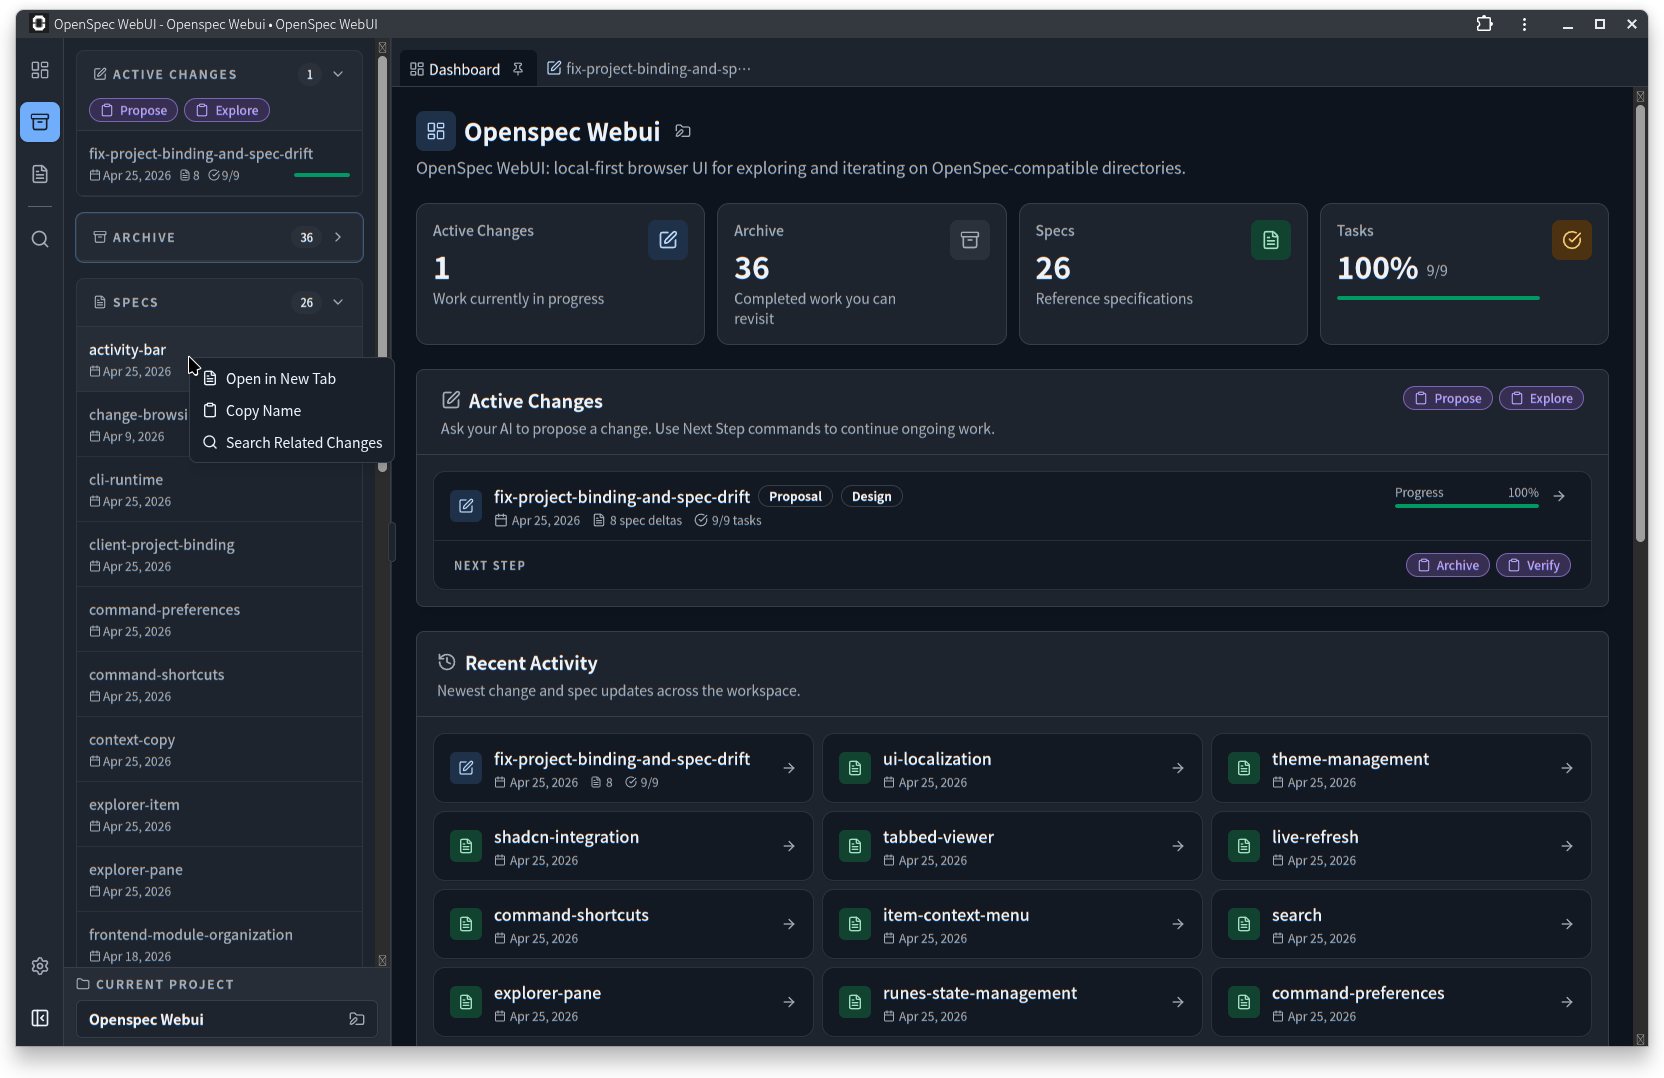
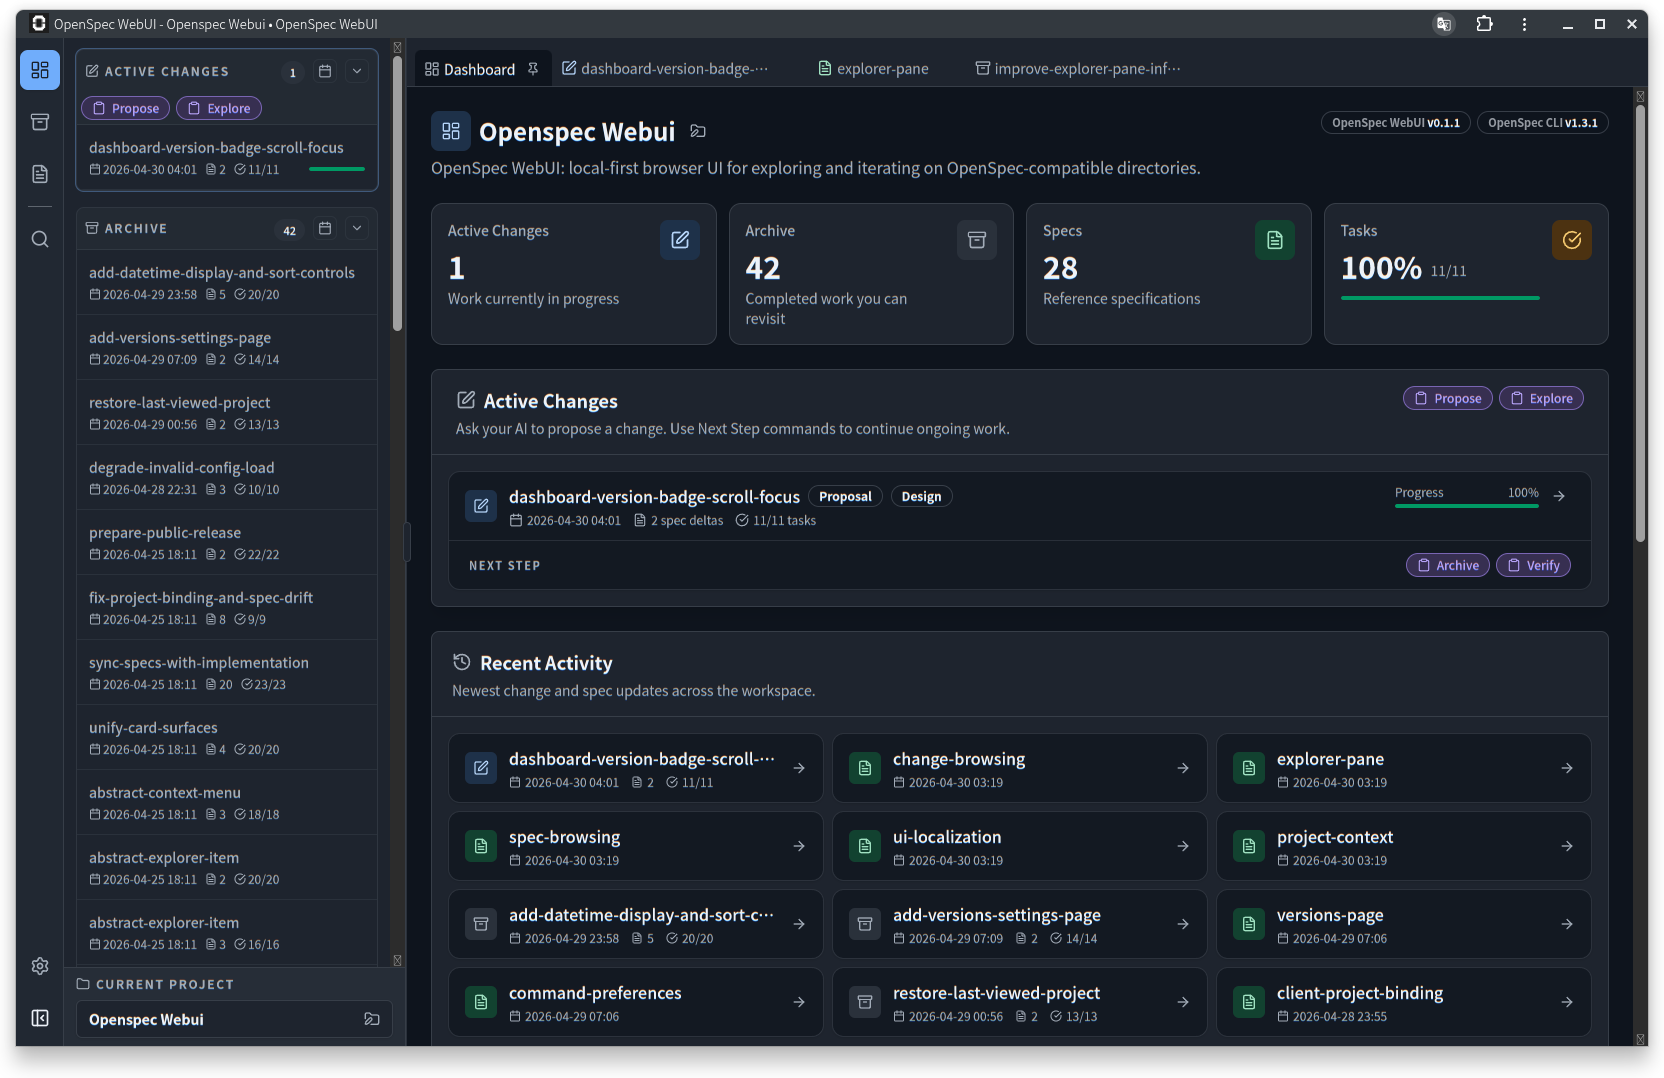
feat: add version badge to dashboard header and explorer scroll focus

diff --git a/frontend/src/lib/components/shared/VersionBadge.svelte b/frontend/src/lib/components/shared/VersionBadge.svelte
@@ -1,0 +1,58 @@
+<script lang="ts">
+  import { ArrowRight } from '@lucide/svelte';
+  import { Badge } from '$lib/components/ui/badge';
+  import { layoutStore } from '$lib/state/layout.svelte.ts';
+  import { versionStatusStore } from '$lib/state/versionStatus.svelte.ts';
+  import { FIXED_LABELS } from '$lib/uiText';
+
+  type ToolBadge = {
+    label: string;
+    current: string | null;
+    latest: string | null;
+    updateAvailable: boolean;
+  };
+
+  let tools = $derived.by((): ToolBadge[] => {
+    const snapshot = versionStatusStore.snapshot;
+    if (!snapshot || snapshot.loading) return [];
+
+    return [
+      {
+        label: FIXED_LABELS.settings.versions.webui,
+        current: snapshot.tools.webui.currentVersion,
+        latest: snapshot.tools.webui.latestVersion,
+        updateAvailable: snapshot.tools.webui.updateAvailable,
+      },
+      {
+        label: FIXED_LABELS.settings.versions.openspecCli,
+        current: snapshot.tools.openspec.currentVersion,
+        latest: snapshot.tools.openspec.latestVersion,
+        updateAvailable: snapshot.tools.openspec.updateAvailable,
+      },
+    ];
+  });
+
+  function handleClick() {
+    layoutStore.openOverlay('settings', { settingsSection: 'versions' });
+  }
+</script>
+
+{#if tools.length > 0}
+  <button type="button" onclick={handleClick} class="flex items-center gap-1.5">
+    {#each tools as tool}
+      <Badge
+        variant={tool.updateAvailable ? 'warning' : 'outline'}
+        class="cursor-pointer gap-0.5 text-[11px] hover:opacity-80 transition-opacity"
+      >
+        <span class="opacity-60">{tool.label}</span>
+        {#if tool.updateAvailable}
+          <span>{tool.current ?? '?'}</span>
+          <ArrowRight class="h-2.5 w-2.5" />
+          <span class="font-semibold">{tool.latest ?? '?'}</span>
+        {:else}
+          <span>v{tool.current ?? '?'}</span>
+        {/if}
+      </Badge>
+    {/each}
+  </button>
+{/if}

diff --git a/frontend/src/lib/state/layout.svelte.ts b/frontend/src/lib/state/layout.svelte.ts
@@ -131,6 +131,7 @@ function createLayoutStore() {
     narrowDrawerOpen: false,
     overlay: null as LayoutOverlay,
     searchInitialQuery: '',
+    settingsInitialSection: null as string | null,
   });
 
   let initialized = false;
@@ -212,6 +213,10 @@ function createLayoutStore() {
       return state.searchInitialQuery;
     },
 
+    get settingsInitialSection() {
+      return state.settingsInitialSection;
+    },
+
     initialize,
 
     setExplorerCollapsed(collapsed: boolean) {
@@ -280,14 +285,16 @@ function createLayoutStore() {
       this.setNarrowDrawerOpen(!state.narrowDrawerOpen);
     },
 
-    openOverlay(overlay: Exclude<LayoutOverlay, null>, options?: { initialQuery?: string }) {
+    openOverlay(overlay: Exclude<LayoutOverlay, null>, options?: { initialQuery?: string; settingsSection?: string }) {
       state.overlay = overlay;
       state.searchInitialQuery = options?.initialQuery ?? '';
+      state.settingsInitialSection = overlay === 'settings' ? (options?.settingsSection ?? null) : null;
     },
 
     closeOverlay() {
       state.overlay = null;
       state.searchInitialQuery = '';
+      state.settingsInitialSection = null;
     },
 
     toggleOverlay(overlay: Exclude<LayoutOverlay, null>) {

diff --git a/frontend/src/lib/components/layout/SettingsModal.svelte b/frontend/src/lib/components/layout/SettingsModal.svelte
@@ -27,6 +27,7 @@
   } from '$lib/commandShortcuts';
   import { commandPreferencesStore } from '$lib/state/commandPreferences.svelte.ts';
   import { tabStore } from '$lib/state/tabs.svelte.ts';
+  import { layoutStore } from '$lib/state/layout.svelte.ts';
   import { themeStore, type Theme } from '$lib/state/theme.svelte.ts';
   import { uiPreferencesStore } from '$lib/state/uiPreferences.svelte.ts';
 
@@ -92,7 +93,8 @@
 
   $effect(() => {
     if (open) {
-      activeSection = 'general';
+      const initialSection = layoutStore.settingsInitialSection;
+      activeSection = (initialSection && sections.some(s => s.id === initialSection) ? initialSection : 'general') as Section;
     }
   });
 

diff --git a/frontend/src/lib/api.ts b/frontend/src/lib/api.ts
@@ -14,7 +14,6 @@ import {
   type SpecSummary,
   type Stats,
   type StructuredApiError,
-  type ToolVersionStatus,
   type VersionStatusResponse,
 } from './types/api';
 const API_BASE = '/api';
@@ -43,7 +42,6 @@ export type {
   StructuredApiError,
   Task,
   TaskProgress,
-  ToolVersionStatus,
   VersionStatusResponse,
 } from './types/api';
 

diff --git a/openspec/changes/archive/2026-04-30-dashboard-version-badge-scroll-focus/design.md b/openspec/changes/archive/2026-04-30-dashboard-version-badge-scroll-focus/design.md
@@ -1,0 +1,48 @@
+## Context
+
+The dashboard (`Dashboard.svelte`) is the home surface of OpenSpec WebUI. Its header currently shows an `<h1>` title and a FolderPen button on the right. The existing Versions feature (Settings → Versions page) already fetches version snapshots from the server and stores them in `versionStatusStore`. The explorer section component (`explorer-section.svelte`) has `scrollIntoView` logic, but only in the direct-toggle handler—not when `focusedSection` changes programmatically.
+
+## Goals / Non-Goals
+
+**Goals:**
+- Give users at-a-glance version status visibility from the dashboard without navigating to Settings
+- Make explorer section focus always visually confirmed by scrolling the section header into view
+- Both behaviors should reuse existing infrastructure (version store, layout store, `headerRef`)
+
+**Non-Goals:**
+- Replacing or duplicating the Settings → Versions page functionality
+- Auto-update or background refresh of version data beyond what already exists
+- Changing how the activity bar or dashboard cards trigger focus (only adding scroll response)
+
+## Decisions
+
+### 1. Version badge reads from existing `versionStatusStore`
+
+The badge consumes `versionStatusStore.snapshot` directly. No new API calls or store logic needed. The store already fetches on app load and the existing toast notification proves the data pipeline works.
+
+### 2. Badge is a `Badge` component from shadcn-svelte with conditional variant
+
+- **No updates**: `variant="outline"`, shows app version string quietly
+- **Updates available**: `variant="warning"` (or `destructive`), shows "current → latest" with arrow icon, clickable
+
+Rationale: shadcn `Badge` already used elsewhere; keeps visual consistency.
+
+### 3. Badge click opens Settings modal directly to Versions page
+
+Call `openSettings('versions')` (or equivalent modal navigation). This avoids implementing a separate version detail UI.
+
+### 4. Scroll-into-view via reactive `$effect` on `focusedSection` in `explorer-section.svelte`
+
+Add an `$effect` that watches the `focusedSection` state from `layoutStore`. When it matches this section's `section` prop and the section is expanded, call `headerRef?.scrollIntoView({ behavior: 'smooth', block: 'start' })`.
+
+Rationale: The existing `scrollIntoView` in `handleToggle()` only fires on user-initiated toggles. A reactive effect catches both `focusSection()` calls (dashboard card clicks) and `setActivityPreset()` calls (activity bar + dashboard summary cards) since both set `focusedSection` in the layout store.
+
+### 5. Use `requestAnimationFrame` wrapper for scroll
+
+Same pattern as existing `handleToggle()`. Ensures the DOM has updated (section expanded) before scrolling.
+
+## Risks / Trade-offs
+
+- **Badge updates only on snapshot refresh**: If version data is stale, the badge may show outdated info. → Acceptable: same limitation as Settings → Versions page. The store already refreshes on app load.
+- **Scroll may fire redundantly**: If the focused section is already visible, `scrollIntoView` is a no-op or minimal scroll. → Acceptable: no visual disruption.
+- **Scroll timing with drawer open animation**: In narrow mode, the drawer may still be animating when scroll fires. → Mitigate with a small `setTimeout` delay after `requestAnimationFrame`, or use `onTransitionEnd` if needed.

diff --git a/openspec/specs/dashboard-version-badge/spec.md b/openspec/specs/dashboard-version-badge/spec.md
@@ -1,0 +1,32 @@
+# dashboard-version-badge Specification
+
+## Purpose
+Define the version status badge displayed in the dashboard header, providing at-a-glance visibility into tool update availability.
+
+## Requirements
+
+### Requirement: Dashboard header shows version status badge
+The system SHALL display a version status badge in the dashboard header, positioned to the right of the FolderPen button. The badge SHALL read from the existing `versionStatusStore` snapshot data.
+
+#### Scenario: All tools up-to-date
+- **WHEN** the version snapshot has loaded and no tool updates are available
+- **THEN** the badge displays the app version string with a quiet outline variant
+- **AND** clicking the badge opens the Settings modal to the Versions page
+
+#### Scenario: Updates available
+- **WHEN** the version snapshot has loaded and one or more tool updates are available
+- **THEN** the badge displays a warning-style badge showing "current → latest" with an arrow icon
+- **AND** clicking the badge opens the Settings modal to the Versions page
+
+#### Scenario: Version snapshot not yet loaded
+- **WHEN** the version snapshot has not yet been fetched
+- **THEN** the badge is not rendered (or shows a loading placeholder)
+- **AND** once the snapshot loads, the badge appears per the above scenarios
+
+### Requirement: Version badge navigates to Versions settings
+The system SHALL open the Settings modal directly to the Versions page when the operator clicks the version badge. This SHALL use the same settings navigation mechanism used by other settings entry points.
+
+#### Scenario: Click badge to open Versions settings
+- **WHEN** the operator clicks the version badge in the dashboard header
+- **THEN** the Settings modal opens with the Versions page active
+- **AND** the Versions sidebar item is highlighted

diff --git a/openspec/changes/archive/2026-04-30-dashboard-version-badge-scroll-focus/specs/explorer-pane/spec.md b/openspec/changes/archive/2026-04-30-dashboard-version-badge-scroll-focus/specs/explorer-pane/spec.md
@@ -1,0 +1,29 @@
+## ADDED Requirements
+
+### Requirement: Explorer section headers scroll into view on programmatic focus
+The system SHALL scroll the focused explorer section header to the top of the explorer pane when the `focusedSection` state changes programmatically. This SHALL apply when focus is triggered by dashboard card clicks, dashboard summary card clicks, and activity bar preset selection. The scroll SHALL use smooth behavior and align the header to the top of the scroll area (`block: 'start'`). The scroll SHALL be deferred until after the section expansion DOM update completes.
+
+#### Scenario: Dashboard card click scrolls section header into view
+- **WHEN** the operator clicks a dashboard card that calls `focusSection()` for a specific section
+- **THEN** the target explorer section expands (if collapsed)
+- **AND** the section header scrolls smoothly to the top of the explorer pane
+
+#### Scenario: Activity bar preset click scrolls section header into view
+- **WHEN** the operator clicks an activity bar button that calls `setActivityPreset()`
+- **THEN** the target explorer section expands (if collapsed)
+- **AND** the section header scrolls smoothly to the top of the explorer pane
+
+#### Scenario: Dashboard summary card scrolls section header into view
+- **WHEN** the operator clicks a dashboard summary card that calls `setActivityPreset()`
+- **THEN** the target explorer section expands (if collapsed)
+- **AND** the section header scrolls smoothly to the top of the explorer pane
+
+#### Scenario: Section already visible does not disrupt
+- **WHEN** the focused section header is already at or near the top of the explorer pane
+- **THEN** the scroll call is a no-op or produces minimal visual movement
+- **AND** no layout shift or flicker occurs
+
+#### Scenario: Direct user toggle still scrolls as before
+- **WHEN** the operator clicks a section header directly in the explorer pane to expand it
+- **THEN** the existing `scrollIntoView` behavior in the toggle handler continues to work
+- **AND** the new reactive scroll does not produce a double-scroll

diff --git a/openspec/changes/archive/2026-04-30-dashboard-version-badge-scroll-focus/specs/dashboard-version-badge/spec.md b/openspec/changes/archive/2026-04-30-dashboard-version-badge-scroll-focus/specs/dashboard-version-badge/spec.md
@@ -1,0 +1,27 @@
+## ADDED Requirements
+
+### Requirement: Dashboard header shows version status badge
+The system SHALL display a version status badge in the dashboard header, positioned to the right of the FolderPen button. The badge SHALL read from the existing `versionStatusStore` snapshot data.
+
+#### Scenario: All tools up-to-date
+- **WHEN** the version snapshot has loaded and no tool updates are available
+- **THEN** the badge displays the app version string with a quiet outline variant
+- **AND** clicking the badge opens the Settings modal to the Versions page
+
+#### Scenario: Updates available
+- **WHEN** the version snapshot has loaded and one or more tool updates are available
+- **THEN** the badge displays a warning-style badge showing "current → latest" with an arrow icon
+- **AND** clicking the badge opens the Settings modal to the Versions page
+
+#### Scenario: Version snapshot not yet loaded
+- **WHEN** the version snapshot has not yet been fetched
+- **THEN** the badge is not rendered (or shows a loading placeholder)
+- **AND** once the snapshot loads, the badge appears per the above scenarios
+
+### Requirement: Version badge navigates to Versions settings
+The system SHALL open the Settings modal directly to the Versions page when the operator clicks the version badge. This SHALL use the same settings navigation mechanism used by other settings entry points.
+
+#### Scenario: Click badge to open Versions settings
+- **WHEN** the operator clicks the version badge in the dashboard header
+- **THEN** the Settings modal opens with the Versions page active
+- **AND** the Versions sidebar item is highlighted

diff --git a/openspec/changes/archive/2026-04-30-dashboard-version-badge-scroll-focus/proposal.md b/openspec/changes/archive/2026-04-30-dashboard-version-badge-scroll-focus/proposal.md
@@ -1,0 +1,25 @@
+## Why
+
+Users have no at-a-glance visibility into version status from the dashboard—they must navigate to Settings → Versions to check. Additionally, when dashboard cards or activity bar buttons focus an explorer section, the section header may be off-screen, making the focus destination unclear.
+
+## What Changes
+
+- Add a version badge to the dashboard header (top-right, beside the FolderPen button) that summarizes version status:
+  - **Up-to-date**: quiet outline badge showing the current app version
+  - **Updates available**: warning-style badge displaying "current → latest" with an arrow, clickable to open Settings → Versions
+- Add scroll-into-view behavior when `focusedSection` state changes programmatically (via dashboard card clicks or activity bar preset selection), scrolling the target explorer section header to the top of the explorer pane
+
+## Capabilities
+
+### New Capabilities
+- `dashboard-version-badge`: Version status indicator in the dashboard header with conditional styling and navigation to Settings → Versions
+
+### Modified Capabilities
+- `explorer-pane`: Section headers scroll into view when `focusedSection` changes programmatically, not just on direct user toggle
+
+## Impact
+
+- `frontend/src/lib/views/Dashboard.svelte` — version badge in header
+- `frontend/src/lib/components/shared/explorer-section/explorer-section.svelte` — reactive scroll on `focusedSection` change
+- `frontend/src/lib/state/versionStatusCore.ts` — may expose helper for badge text/logic
+- No backend changes; existing version-status service and store provide all needed data

diff --git a/openspec/changes/archive/2026-04-30-dashboard-version-badge-scroll-focus/tasks.md b/openspec/changes/archive/2026-04-30-dashboard-version-badge-scroll-focus/tasks.md
@@ -1,0 +1,22 @@
+## 1. Version Badge Component
+
+- [x] 1.1 Create a `VersionBadge.svelte` component that reads from `versionStatusStore.snapshot` and renders a shadcn `Badge` with conditional variant (outline when up-to-date, warning when updates available)
+- [x] 1.2 Add click handler to `VersionBadge` that opens the Settings modal directly to the Versions page
+- [x] 1.3 Handle the loading state—hide the badge (or show skeleton) when snapshot is null
+
+## 2. Integrate Badge into Dashboard Header
+
+- [x] 2.1 Import and place `VersionBadge` in `Dashboard.svelte` header, positioned to the right of the FolderPen button in the top-right area
+
+## 3. Scroll-into-View on Programmatic Focus
+
+- [x] 3.1 Add a reactive `$effect` in `explorer-section.svelte` that watches `layoutStore.focusedSection` and, when it matches the section's `section` prop, calls `headerRef?.scrollIntoView({ behavior: 'smooth', block: 'start' })` via `requestAnimationFrame`
+- [x] 3.2 Ensure the reactive scroll does not double-fire when the existing `handleToggle` scroll already handled the same section expansion (e.g., guard with a timestamp or skip if the trigger was a direct toggle)
+
+## 4. Verification
+
+- [x] 4.1 Verify version badge appears on dashboard with correct variant for both up-to-date and update-available states
+- [x] 4.2 Verify clicking badge opens Settings → Versions
+- [x] 4.3 Verify dashboard card clicks scroll the target section header into view
+- [x] 4.4 Verify activity bar clicks scroll the target section header into view
+- [x] 4.5 Verify direct section header toggle still scrolls without double-scroll